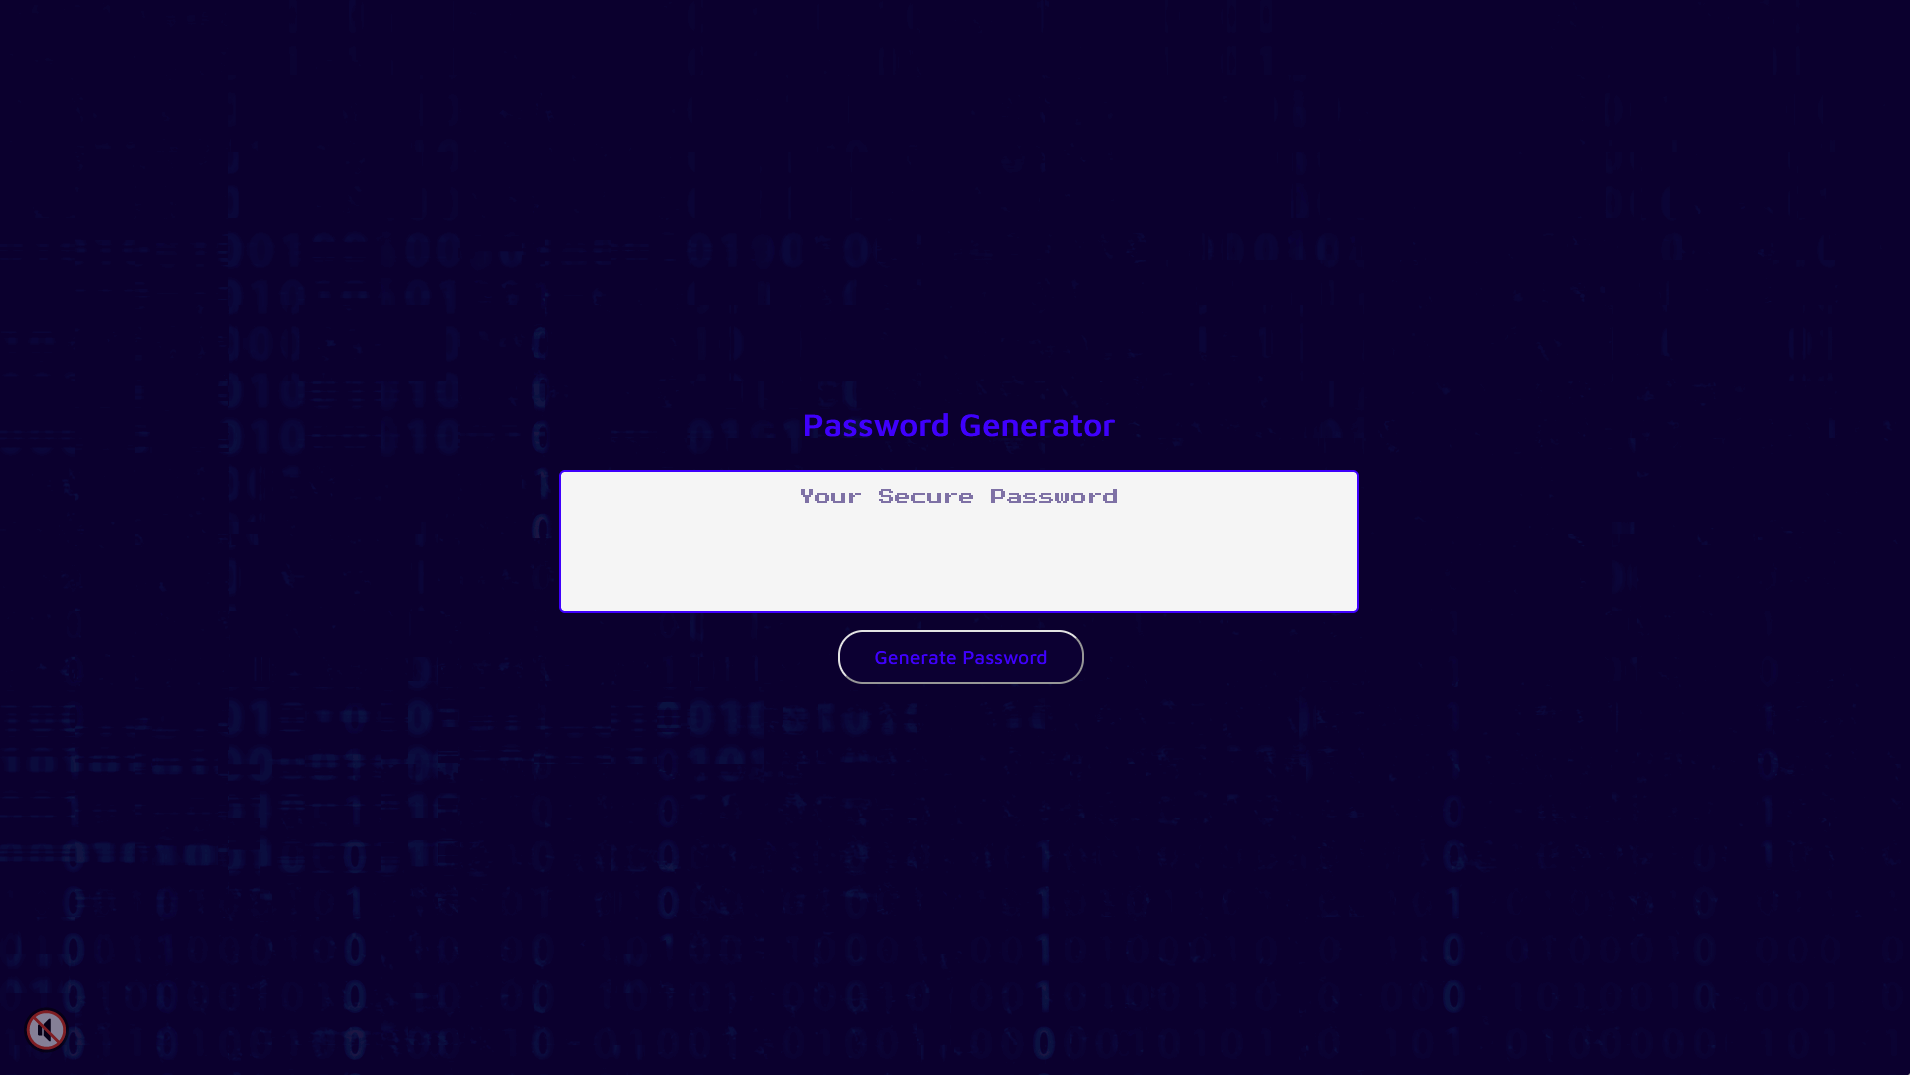
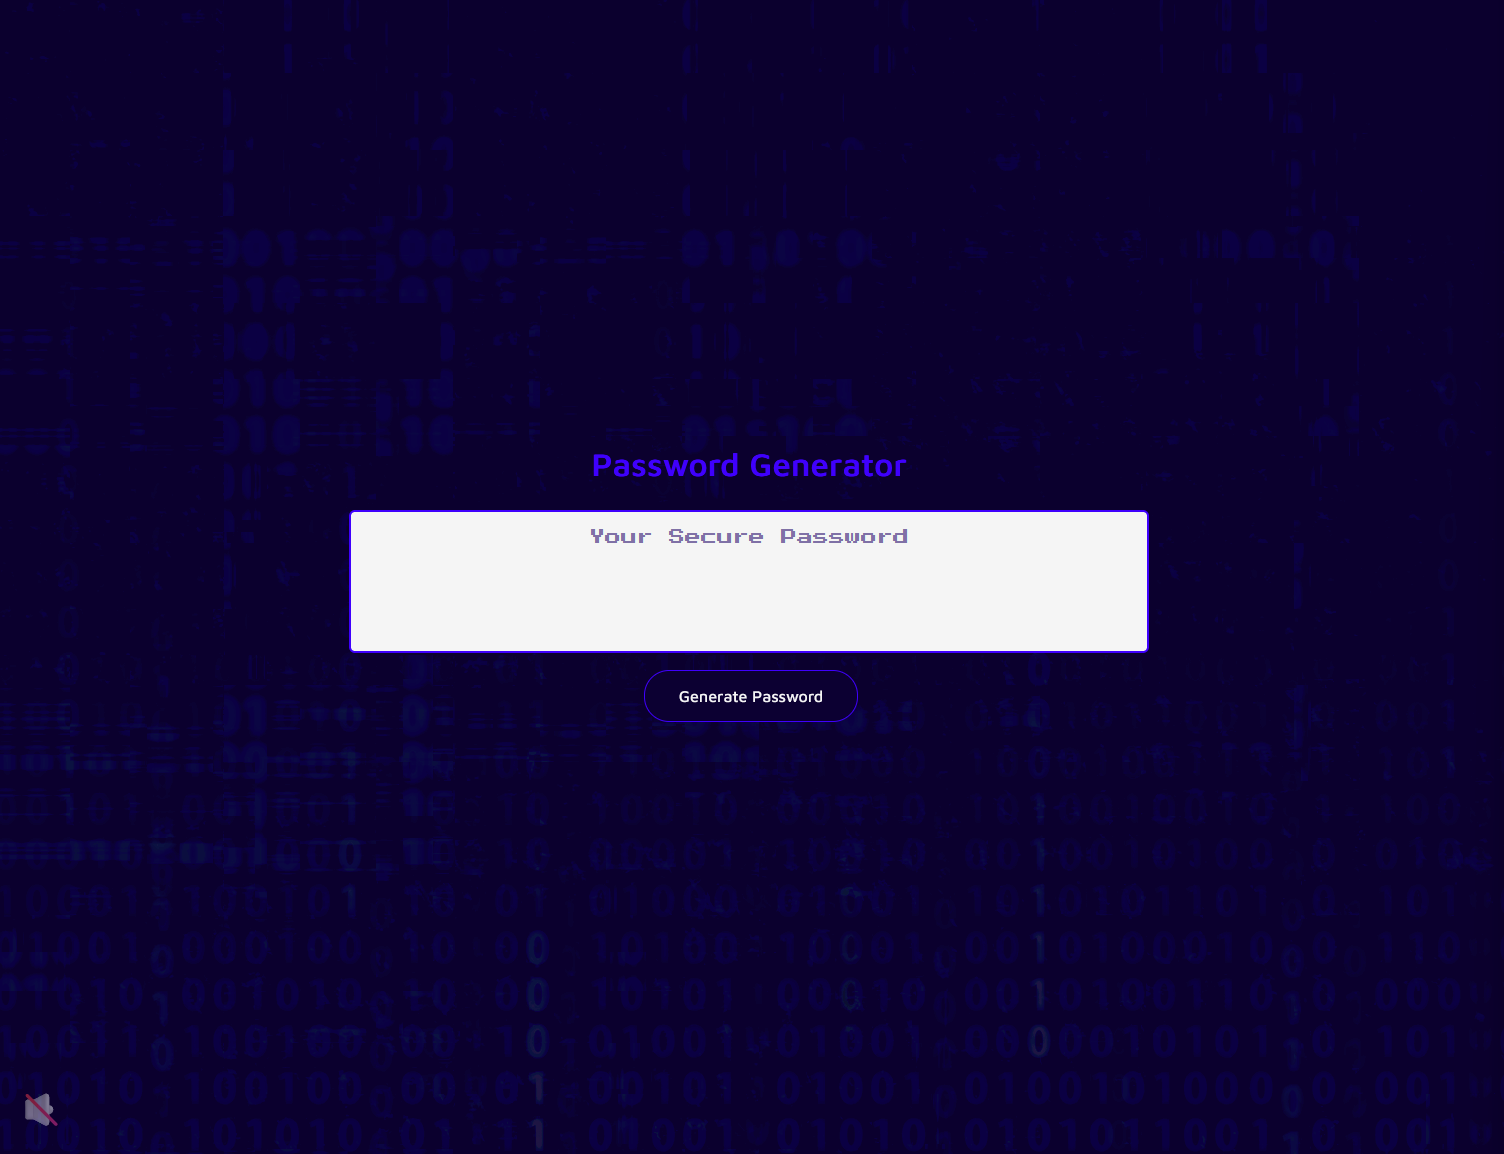
updated styles and screenshots

Changed region(s): [[0.2188, 0.3684, 0.7812, 0.6447], [0.0, 0.9209, 0.0312, 0.9823]]

diff --git a/assets/css/style.css b/assets/css/style.css
@@ -136,7 +136,7 @@ textarea {
   background-color: var(--tertiary-color);
   border-radius: 25px;
   box-shadow: rgba(0, 0, 0, 0.1) 0px 1px 6px 0px rgba(0, 0, 0, 0.2) 0px 1px 1px 0px;
-  color: var(--primary-color);
+  color: whitesmoke;
   display: inline-block;
   font-size: 1rem;
   font-family: body;
@@ -145,6 +145,7 @@ textarea {
   padding: 14px 34px;
   text-align: center;
   cursor: pointer;
+  border: solid 1px var(--primary-color)
 }
 
 .btn:hover {
@@ -157,6 +158,7 @@ textarea {
     bottom: 35px;
     opacity: 0.5;
     font-size: 2.5rem;
+    cursor: pointer;
 }
 
 @media screen and (min-width: 360px) {
